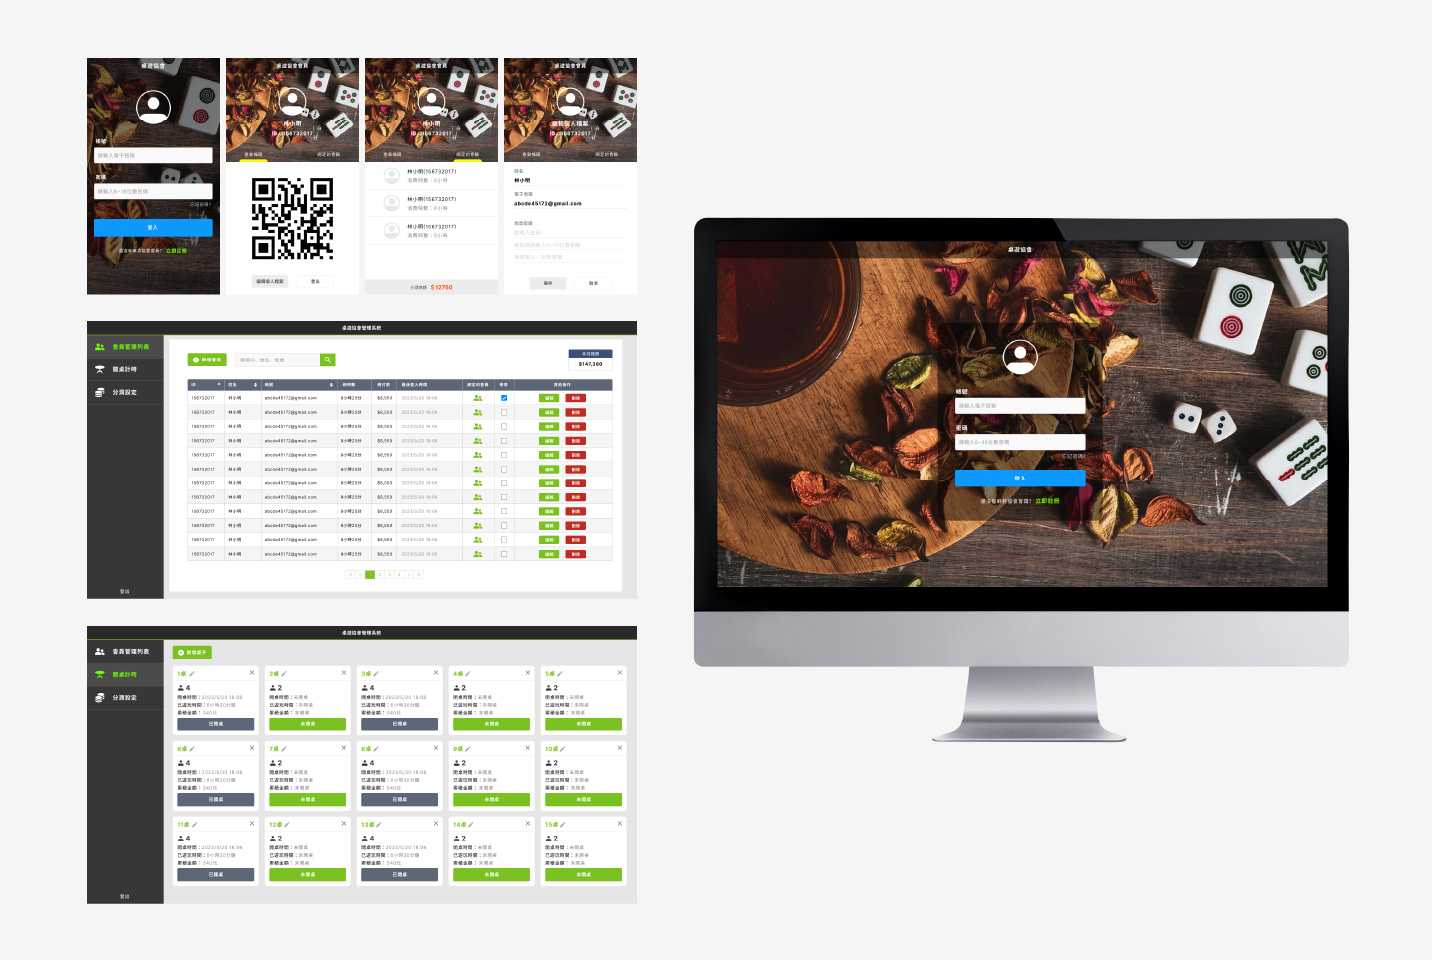
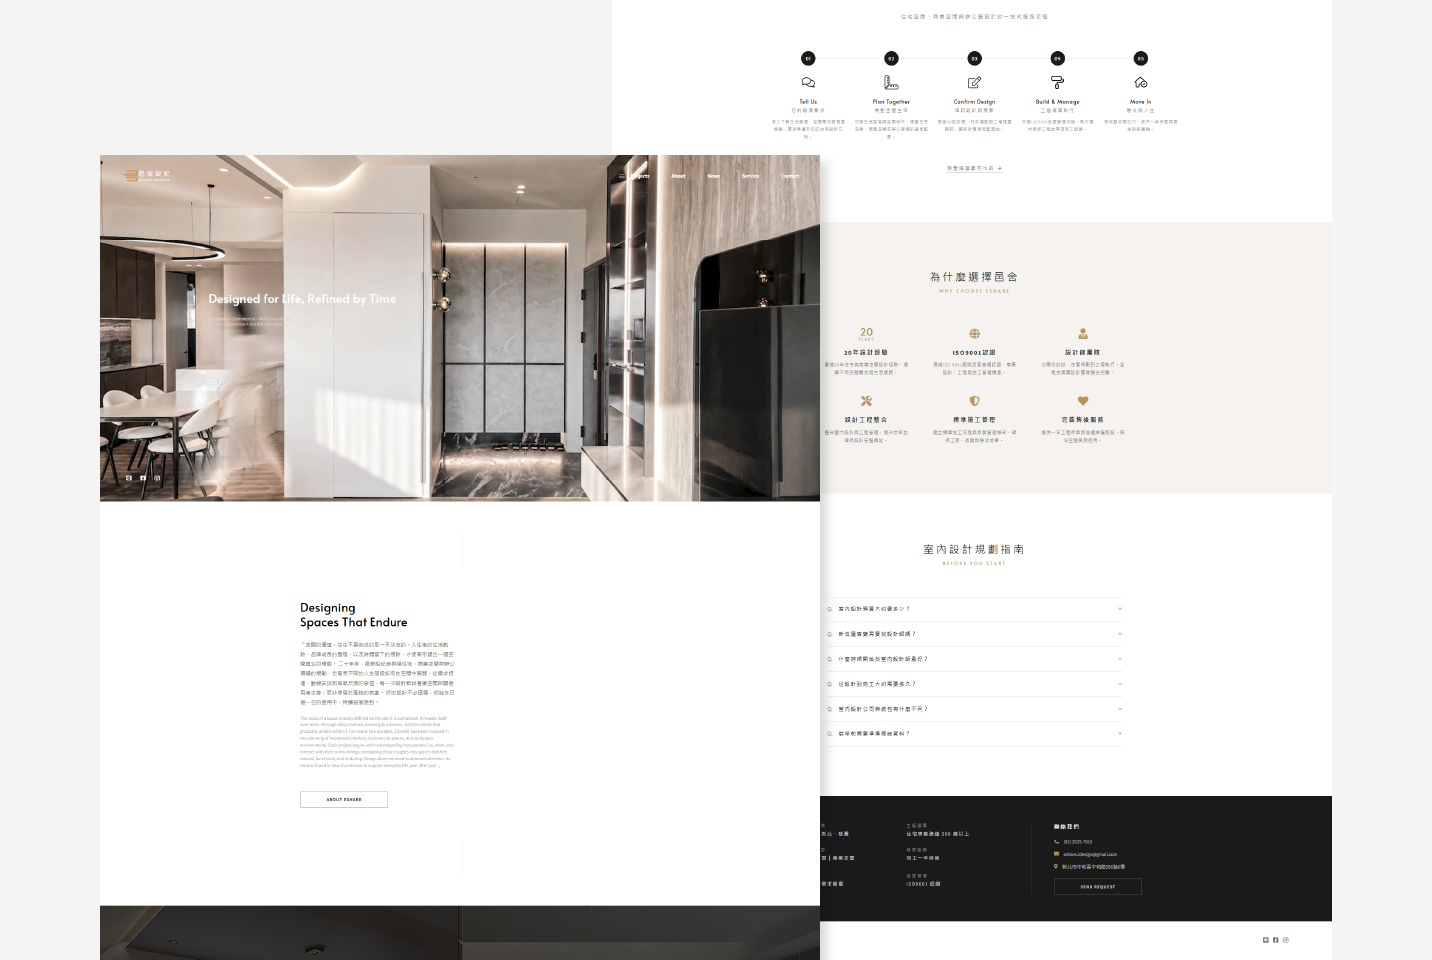
feat: 更新邑舍設紀專案內容與封面圖，移除桌遊協會管理系統

diff --git a/src/components/ProjectsCom.vue b/src/components/ProjectsCom.vue
@@ -50,7 +50,7 @@ function closeModal() {
 
 const projects = [
   {
-    title: '盈米科技',
+    title: '盈米科技 官方形象網站',
     tag: [
       'Web Development',
       'UI/UX Design',
@@ -67,12 +67,12 @@ const projects = [
     link: 'https://twyingmi.com/',
   },
   {
-    title: '呂玉玫 電子名片',
-    tag: ['Web Development', 'UI/UX Design', 'Vue3', 'Tailwind CSS', 'TypeScript'],
+    title: '邑舍設紀 官方形象網站',
+    tag: ['Web Development', 'UI/UX Design', 'jQuery', 'Bootstrap', 'PHP'],
     summary:
-      '打造個人品牌電子名片，整合六間關聯企業、協會資訊與聯絡方式，以深色簡約的設計呈現專業沉穩的視覺風格。',
-    cover: '/imgs/projects/5/0.jpg',
-    link: 'https://storage.googleapis.com/yingmigcs/amanda_business_card/index.html',
+      '協助室內設計品牌官網改版，優化視覺介面與內容架構，提升品牌形象的一致性與使用者瀏覽體驗。',
+    cover: '/imgs/projects/6/0.jpg',
+    link: 'https://www.eshare-id.com/',
   },
   {
     title: '松華選材系統',
@@ -122,29 +122,12 @@ const projects = [
     ],
   },
   {
-    title: '桌遊協會管理系統',
-    tag: ['UI/UX Design', 'Figma'],
+    title: '呂玉玫電子名片',
+    tag: ['Web Development', 'UI/UX Design', 'Vue3', 'Tailwind CSS', 'TypeScript'],
     summary:
-      '為桌遊協會設計的會員與桌遊管理系統，包含會員資料管理、桌遊借還管理、開桌計時與分潤設定等功能，提升協會運營效率。',
-    cover: '/imgs/projects/6/0.jpg',
-    images: [
-      { src: '/imgs/projects/6/1.jpg', title: '登入' },
-      { src: '/imgs/projects/6/2.jpg', title: '註冊' },
-      { src: '/imgs/projects/6/3.jpg', title: '忘記密碼' },
-      { src: '/imgs/projects/6/4.png', title: '會員列表' },
-      { src: '/imgs/projects/6/5.png', title: '新增會員' },
-      { src: '/imgs/projects/6/6.png', title: '編輯會員資料' },
-      { src: '/imgs/projects/6/7.png', title: '綁定的會員' },
-      { src: '/imgs/projects/6/8.png', title: '開桌列表' },
-      { src: '/imgs/projects/6/9.png', title: '設定桌子' },
-      { src: '/imgs/projects/6/10.png', title: '開桌計時' },
-      { src: '/imgs/projects/6/11.png', title: '停止計時' },
-      { src: '/imgs/projects/6/12.png', title: '分潤設定' },
-      { src: '/imgs/projects/6/13.png', title: '手機-登入' },
-      { src: '/imgs/projects/6/14.png', title: '手機 - 會員條碼' },
-      { src: '/imgs/projects/6/15.png', title: '手機 - 綁定的會員' },
-      { src: '/imgs/projects/6/16.png', title: '手機 - 編輯個人資料' },
-    ],
+      '打造個人品牌電子名片，整合六間關聯企業、協會資訊與聯絡方式，以深色簡約的設計呈現專業沉穩的視覺風格。',
+    cover: '/imgs/projects/5/0.jpg',
+    link: 'https://storage.googleapis.com/yingmigcs/amanda_business_card/index.html',
   },
   {
     title: '3D 家具建材互動展示',
